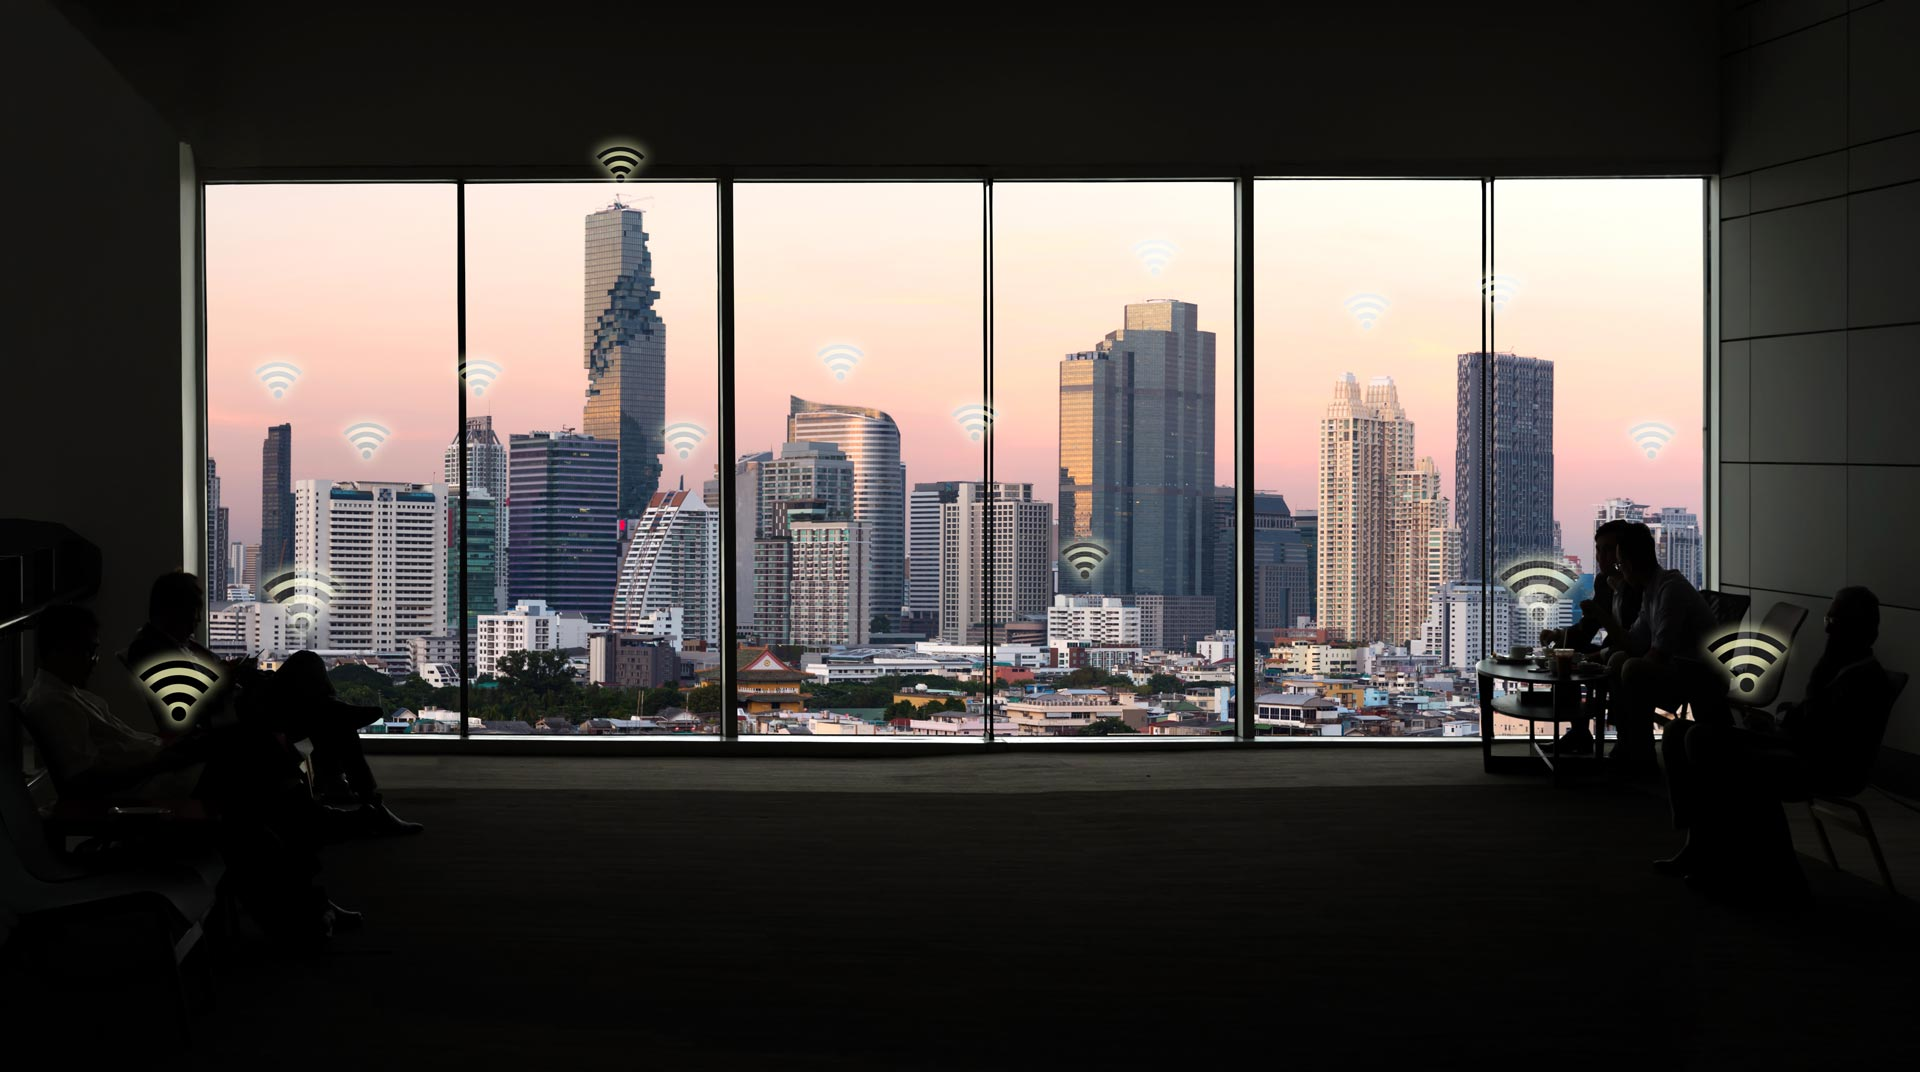
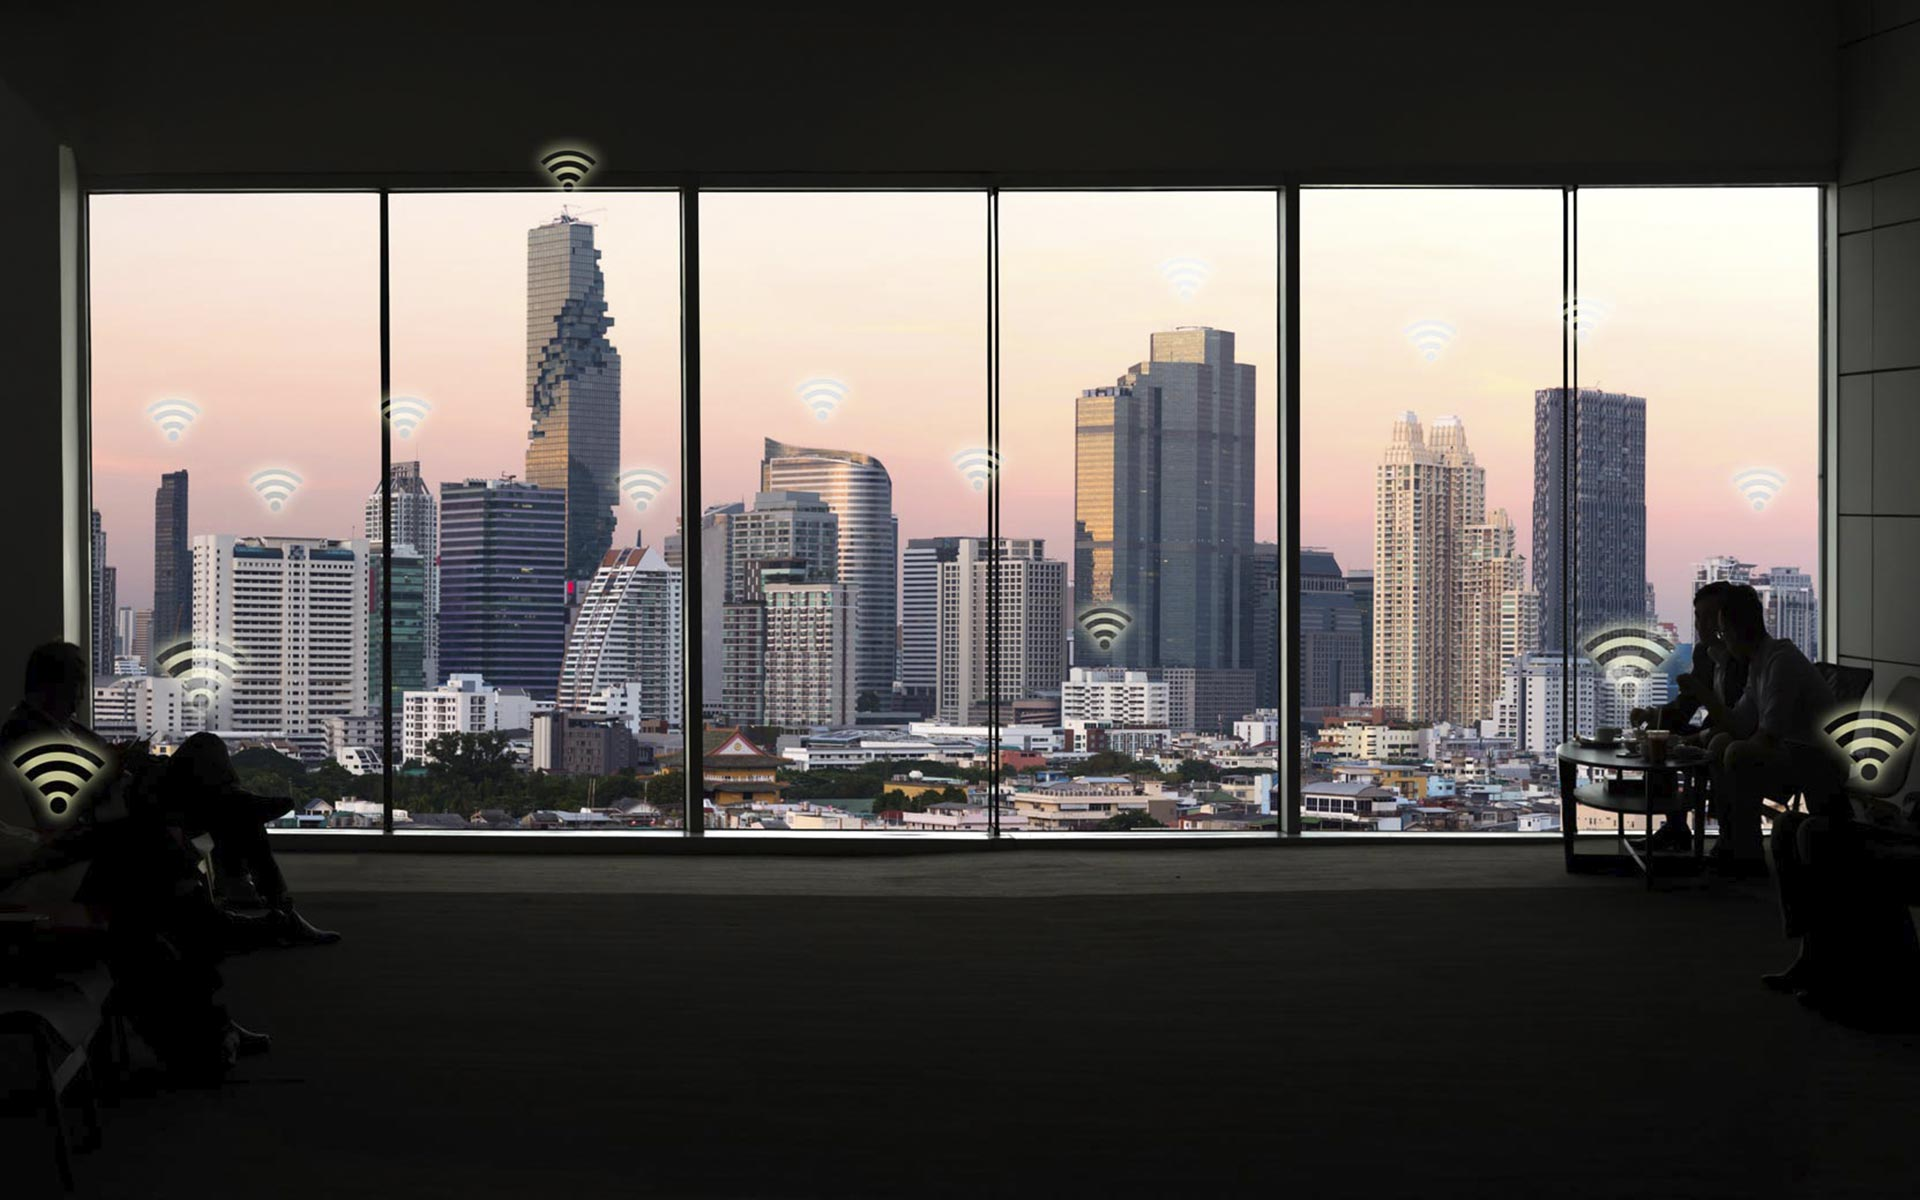
Add slogan on nav bar and fix some images

diff --git a/index.html b/index.html
@@ -41,6 +41,11 @@
                 <div class="module widget-handle mobile-toggle right visible-sm visible-xs absolute-xs">
                     <i class="ti-menu"></i>
                 </div>
+                <div class="nav-utility text-center">
+                    <div class="module">
+                        <span>Una solución de domótica para cada necesidad.</span>
+                    </div>
+                </div>
             </nav>
         </div>
 
@@ -676,8 +681,8 @@
             function showCity(){
                 document.getElementById('city-tab').click();
                 document.getElementById('hidden-city-tab').click();
-                document.getElementById('background-soluciones').querySelector('img').src = '/img/ciudad-bg-old.jpg';
-                document.getElementById('background-soluciones').style.background = "url('/img/ciudad-bg-old.jpg')";
+                document.getElementById('background-soluciones').querySelector('img').src = '/img/ciudad-bg-2.jpg';
+                document.getElementById('background-soluciones').style.background = "url('/img/ciudad-bg-2.jpg')";
 
             }
         </script>
